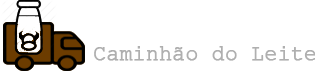
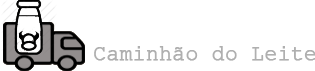
Deixando adicionar dica bonitinho :)

diff --git a/app/views/temas.scala.html b/app/views/temas.scala.html
@@ -129,49 +129,44 @@
                                     @message
                                 </div>
                                 }
-                                <form action="@routes.Temas.addDificuldade(idTema)" method="POST">
-                                    Dificuldade:
-                                    <input type="number" class="form-control" name="dificuldade" placeholder="Deve ser um número entre -2 e 2" required >
-                                    <button type="submit">OK</button>
-                                </form>
-
-                                <ul>
-                                    @for(tema <- temas){
-                                        @if(tema.getId() == idTema){
-                                            @for(dica <- tema.getDicas()){
-                                                <li>@dica.toString()</li>
-                                            }
-                                        }
-                                    }
-                                </ul>
                                 <br>
 
 <!--Inicio forum de discussao-->
                                 <div class="panel panel-default">
-                                    <div class="panel-heading"><a href="#" class="pull-right">View all</a> <h4>Dicas</h4></div>
+                                    <div class="panel-heading"> <h4>Dicas</h4></div>
                                     <div class="panel-body">
-                                        <img src="//placehold.it/150x150" class="img-circle pull-right"> <a href="#">Keyword: Bootstrap</a>
-                                        <div class="clearfix"></div>
-                                        <hr>
-
-                                        <p>If you're looking for help with Bootstrap code, the <code>twitter-bootstrap</code> tag at <a href="http://stackoverflow.com/questions/tagged/twitter-bootstrap">Stackoverflow</a> is a good place to find answers.</p>
-
-                                        <hr>
-                                        <form>
-                                            <div class="input-group">
-                                                <div class="input-group-btn">
-                                                    <button class="btn btn-default">+1</button><button class="btn btn-default"><i class="glyphicon glyphicon-share"></i></button>
+                                        @for(tema <- temas) {
+                                            @if(tema.getId() == idTema) {
+                                                @if(tema.getDicas().isEmpty) {
+                                                    Nenhuma dica cadastrada para este tema.
+                                                } else {
+                                                @for(dica <- tema.getDicas()) {
+                                                    <div class="panel panel-info">
+                                                    <div class="panel-heading">
+                                                        <a href="#" class="pull-right">Avaliar Dica</a>
+                                                            <h3 class="panel-title">
+        @dica.getTipo()
+                                                        </h3>
+                                                        </div>
+                                                    <div class="panel-body">
+                                                    @dica.toString()
+                                                    </div>
                                                 </div>
-                                                <input type="text" class="form-control" placeholder="Add a comment..">
-                                            </div>
-                                        </form>
+                                                }
+                                            }
+                                            }
+                                        }
+
+
+                                        <hr>
+
+                                        <button type="submit" class="btn btn-primary" data-target="#addDica" data-toggle="modal">Adicionar Dica</button>
+                                        <button type="submit" class="btn btn-primary" data-target="#avaliacao" data-toggle="modal">Avaliar Tema</button>
+
+
 
                                     </div>
-                                </div>
-
-
-                                <button type="submit" class="btn btn-primary" data-target="#addDica" data-toggle="modal">Adicionar Dica</button>
-                                <button type="submit" class="btn btn-primary" data-target="#avaliacao" data-toggle="modal">Avaliar Tema</button>
+                                    </div>
 
 
 
@@ -183,30 +178,15 @@
                                                 <button type="button" class="close" data-dismiss="modal" aria-hidden="true">×</button>
                                                 <h4 class="modal-title" id="exampleModalLabel">Avaliar Tema</h4>
                                             </div>
+                                            <form action="@routes.Temas.addDificuldade(idTema)" method="POST" name="dificuldade">
                                             <div class="modal-body">
                                                Escolha uma nota de dificuldade para este tema (-2 para muito fácil e +2 para muito difícil):<br><br>
-
-                                                   <form role="form">
-                                                       <label class="radio-inline">
-                                                           <input type="radio" name="optradio">-2
-                                                       </label>
-                                                       <label class="radio-inline">
-                                                           <input type="radio" name="optradio">-1
-                                                       </label>
-                                                       <label class="radio-inline">
-                                                           <input type="radio" name="optradio">0
-                                                       </label>
-                                                       <label class="radio-inline">
-                                                           <input type="radio" name="optradio">1
-                                                       </label>
-                                                       <label class="radio-inline">
-                                                           <input type="radio" name="optradio">2
-                                                       </label>
-                                                   </form>
+                                                <input type="number" max="2" min="-2" name="dificuldade" required data-validation-required-message="">
                                             </div>
                                             <div class="modal-footer">
-                                                <button type="button" class="btn btn-primary" data-dismiss="modal">Cancelar</button>
+                                                            <button type="subimit" class="btn btn-primary" name="dificuldade">Enviar</button>
                                             </div>
+                                            </form>
                                         </div>
                                     </div><!-- /.modal-content -->
                                 </div><!-- /.modal-dialog -->
@@ -223,10 +203,10 @@
                                                 <h4 class="modal-title" id="exampleModalLabel">Escolha o tipo de dica</h4>
                                             </div>
                                             <div class="modal-body">
-                                                <p><button class="btn btn-default" data-target="#dica1" data-toggle="modal">Para não ter dificuldades</button><br><br></p>
-                                                <p><button class="btn btn-info" data-target="#dica2" data-toggle="modal">Disciplinas anteriores que te ajudarão</button><br><br></p>
-                                                <p><button class="btn btn-warning" data-target="#dica3" data-toggle="modal">URL de uma matéria útil</button><br><br></p>
-                                                <p><button class="btn btn-success" data-target="#dica4" data-toggle="modal">Conselho</button></p>
+                                                <button class="btn btn-default" data-target="#dica1" data-toggle="modal">Para não ter dificuldades</button><br><br>
+                                                <button class="btn btn-info" data-target="#dica2" data-toggle="modal">Disciplinas anteriores que te ajudarão</button><br><br>
+                                                <button class="btn btn-warning" data-target="#dica3" data-toggle="modal">URL de uma matéria útil</button><br><br>
+                                                <button class="btn btn-success" data-target="#dica4" data-toggle="modal">Conselho</button>
                                             </div>
                                             <div class="modal-footer">
                                                 <button type="button" class="btn btn-primary" data-dismiss="modal">Cancelar</button>
@@ -330,7 +310,7 @@
                                         <div class="modal-body">
                                             <div class="form-group">
                                                 <label for="recipient-name" class="control-label">Dica:</label>
-                                                <textarea type="text" class="form-control" name="conselho" placeholder="Conselho" required data-validation-required-message="Digite um conselho que não seja vazio"></textarea>
+                                                <textarea type="text" class="form-control" name="conselho" placeholder="Conselho" required data-validation-required-message="Digite um conselho que não seja vazio" maxlength="200"></textarea>
                                             </div>
                                         </div>
                                         <div class="modal-footer">
@@ -363,6 +343,7 @@
             </div>
 
             </div>
+
                 <!--</div>-->
                 <!-- /#page-wrapper -->
 

diff --git a/app/views/index.scala.html b/app/views/index.scala.html
@@ -84,7 +84,7 @@
 
                                         <!-- Fim do cabeçalho! -->
 
-                                        Caminhão do Leite <small> O seu portal de leites</small>
+                                    <img src="@routes.Assets.at("images/logo-cinza.png")"> Caminhão do Leite <small> O seu portal de leites</small>
                                 </h1>
                                 <ol class="breadcrumb">
                                     <li class="active">

diff --git a/public/css/sb-admin.css b/public/css/sb-admin.css
@@ -8,7 +8,7 @@
 
 body {
     margin-top: 100px;
-    background-color: #222;
+    background-color: #777;
 }
 
 @media(min-width:768px) {
@@ -87,6 +87,10 @@ background-color: #ffff00;
 
 p {
     text-indent: 40px;
+}
+
+body {
+    background-color:#777;
 }
 
 .menu {

diff --git a/public/javascripts/hello.js b/public/javascripts/hello.js
@@ -1,3 +1,8 @@
 if (window.console) {
   console.log("Welcome to your Play application's JavaScript!");
 }
+
+document.dificuldade.onclick = function(){
+    var radVal = document.dificuldade.rads.value;
+    result.innerHTML = +radVal;
+}

diff --git a/app/controllers/Temas.java b/app/controllers/Temas.java
@@ -69,13 +69,14 @@ public class Temas {
     @Transactional
     public static Result addDificuldade(Long idTema) {
         DynamicForm filledForm = Form.form().bindFromRequest();
+        String dificul = filledForm.get("dificuldade");
         int dificuldade;
         if (filledForm.hasErrors()){
             flash("message", "Formulário invalido!");
             return Temas.temas(400, idTema);
         }
         try{
-            dificuldade = Integer.parseInt(filledForm.get("dificuldade"));
+            dificuldade = Integer.parseInt(dificul);
             Logger.debug("Dificuldade: " + dificuldade);
             Logger.debug("Usuário: " + session().get("user"));
         } catch (Exception e){

diff --git a/app/models/dica/MaterialUtil.java b/app/models/dica/MaterialUtil.java
@@ -1,7 +1,5 @@
 package models.dica;
 
-import play.Logger;
-
 import javax.persistence.Column;
 import javax.persistence.Entity;
 
@@ -44,6 +42,11 @@ public class MaterialUtil extends Dica {
 
     @Override
     public String toString() {
-        return "Material útil: " + getMaterial();
+        return getMaterial();
+    }
+
+    @Override
+    public String getTipo() {
+        return "Material útil";
     }
 }

diff --git a/app/models/dica/PrecisaSaber.java b/app/models/dica/PrecisaSaber.java
@@ -31,6 +31,11 @@ public class PrecisaSaber extends Dica {
 
     @Override
     public String toString() {
-        return "O que precisa saber para não ter dificuldades: " + getAssunto();
+        return getAssunto();
+    }
+
+    @Override
+    public String getTipo() {
+        return "O que precisa saber para não ter dificuldades" ;
     }
 }

diff --git a/app/models/dica/DisciplinaUtil.java b/app/models/dica/DisciplinaUtil.java
@@ -46,6 +46,11 @@ public class DisciplinaUtil extends Dica {
 
     @Override
     public String toString() {
-        return "Disciplina útil: " + getNome() + " - Razão: " + getRazao();
+        return getRazao();
+    }
+
+    @Override
+    public String getTipo() {
+        return "Disciplina útil";
     }
 }

diff --git a/app/models/dica/Conselho.java b/app/models/dica/Conselho.java
@@ -33,4 +33,9 @@ public class Conselho extends Dica {
     public String toString() {
         return "Conselho: " + conselho;
     }
+
+    @Override
+    public String getTipo() {
+        return "Material útil";
+    }
 }

diff --git a/app/models/dica/Dica.java b/app/models/dica/Dica.java
@@ -38,4 +38,7 @@ public abstract class Dica {
     public void setTema(Tema tema) {
         this.tema = tema;
     }
+
+    public abstract String getTipo();
+
 }
